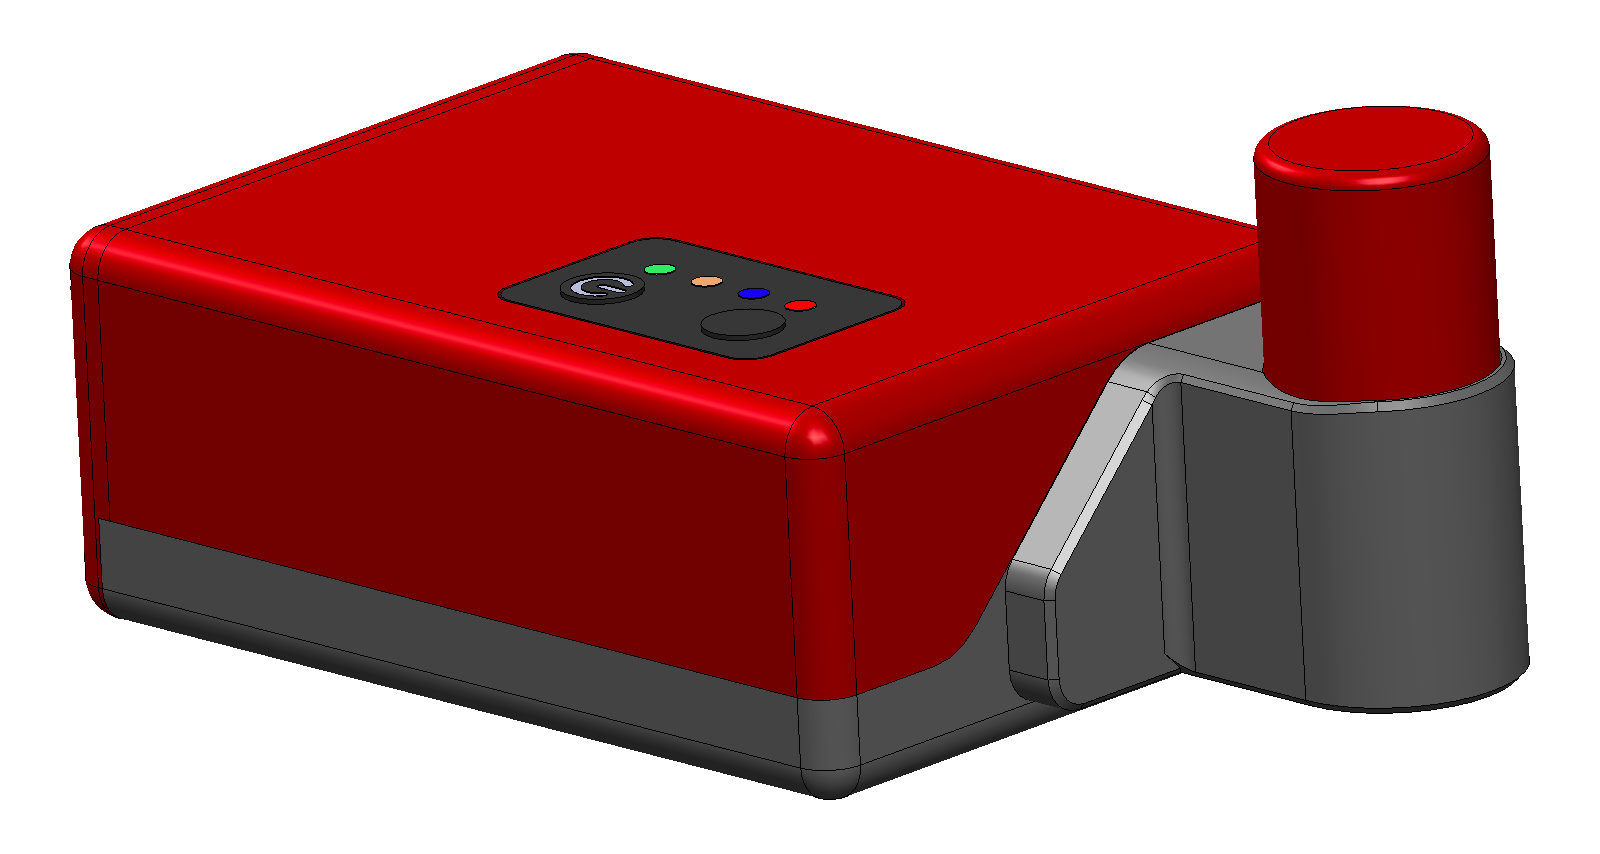
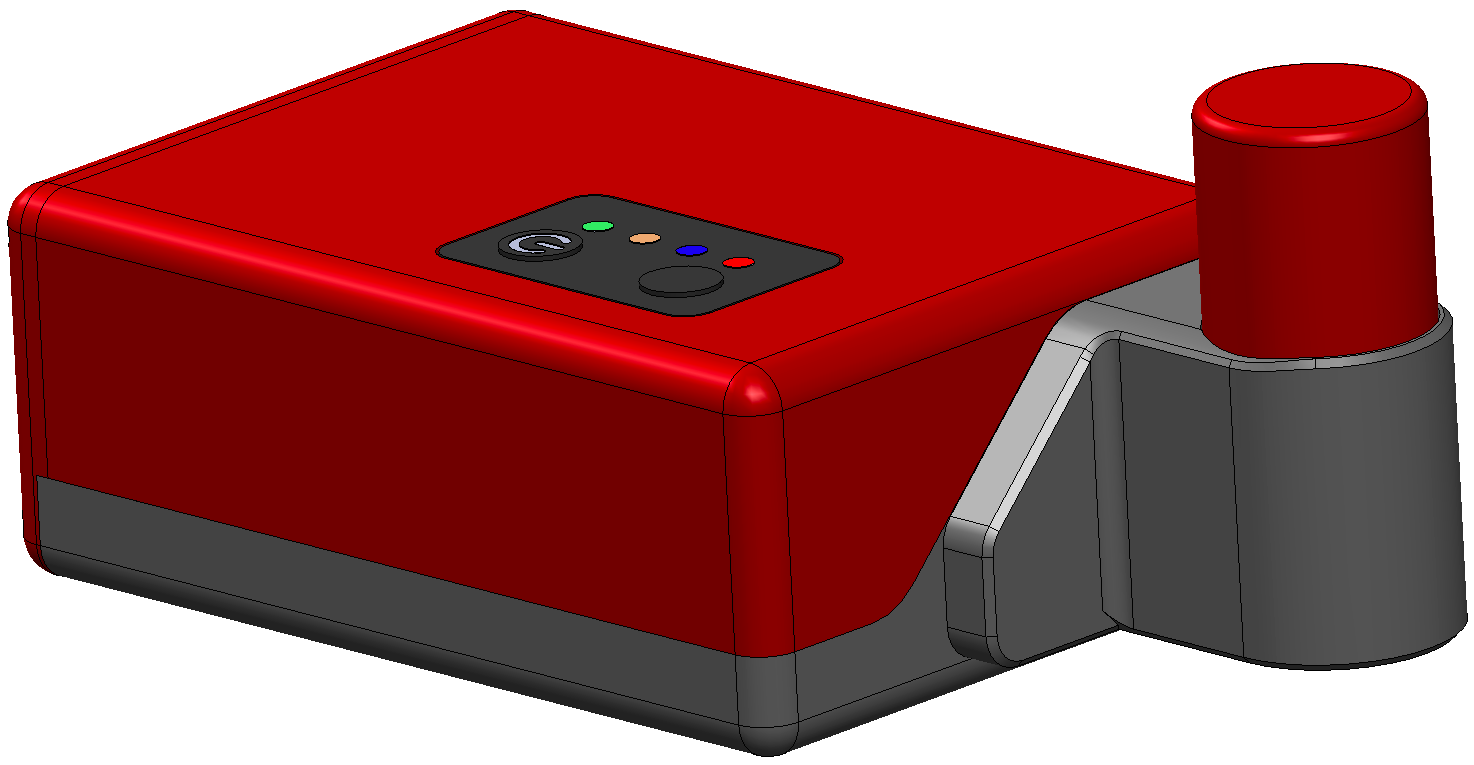
fixed BLW FW, testing PCS, add Laser Max Temp, add AssemblyRev, deprecated baud & linearity

diff --git a/enlighten/Controller.py b/enlighten/Controller.py
@@ -826,13 +826,16 @@ class Controller:
             self.eeprom_writer.backup()
 
         ########################################################################
-        # display firmware
+        # update hardware details (move to class)
         ########################################################################
 
         cfu.label_microcontroller_firmware_version.setText(spec.settings.microcontroller_firmware_version)
         cfu.label_fpga_firmware_version.setText(spec.settings.fpga_firmware_version)
         cfu.label_microcontroller_serial_number.setText(spec.settings.microcontroller_serial_number)
-        cfu.label_ble_firmware_version.setText(spec.settings.ble_firmware_version)
+        cfu.label_assembly_revision.setText(str(spec.settings.eeprom.assembly_revision))
+
+        self.update_ble_firmware_version()
+        self.update_power_connection_state()
 
         ########################################################################
         # update EEPROM Editor
@@ -1015,6 +1018,32 @@ class Controller:
         # updates from initialization to match time window in spinbox
         # call StripChartFeature getter
         spec.app_state.reset_rolling_data(time_window=cfu.spinBox_strip_window.value(), hotplug=hotplug)
+
+    def update_ble_firmware_version(self):
+        cfu = self.form.ui
+        spec = self.multispec.current_spectrometer()
+        if spec is None:
+            return
+
+        cfu.label_ble_firmware_version.setText(spec.settings.ble_firmware_version)
+
+    def update_power_connection_state(self):
+        """ USB adapter info """
+        cfu = self.form.ui
+        lb = cfu.label_power_connection_state
+        lb.clear()
+        lb.setToolTip(None)
+
+        spec = self.multispec.current_spectrometer()
+        if spec is None:
+            return
+
+        pcs = spec.settings.state.power_connection_state
+        if not pcs:
+            return
+            
+        lb.setText(pcs.short())
+        lb.setToolTip(pcs.long())
 
     # ##########################################################################
     # Setup (populate widget placeholders)
@@ -1701,6 +1730,9 @@ class Controller:
 
         elif msg.setting == "scan_averaging": 
             self.scan_averaging.process_status_message(msg.value, spec)
+
+        elif msg.setting == "received_ble_firmware_version": 
+            self.update_ble_firmware_version()
 
         else:
             log.debug("unsupported StatusMessage: %s", msg.setting)

diff --git a/enlighten/device/EEPROMEditor.py b/enlighten/device/EEPROMEditor.py
@@ -41,6 +41,7 @@ class EEPROMAttribute:
         self.is_scalar = False          # is this a array like wavelength_coeffs (lineedit) or bad_pixels (spinbox), or a scalar like excitation_nm_float or serial_number?
         self.is_multi = False           # does this attribute support multiple values for different wavelength calibrations per subformat 5?
         self.is_editable = False        # should this field be editable using the "wasatch" and "wasatchoem" passwords?
+        self.is_data = False            # is this a packed byte array
         self.count = 0                  # if this attribute is a list (non-scalar), how many elements does it have?
         self.calibrations = 0           # if this attribute is_multi, how many calibrations does it have?
         self.widget = None
@@ -316,7 +317,7 @@ class EEPROMEditor:
             self.add_attribute("checkbox", name, widget=getattr(cfu, f"checkBox_ee_{name}"))
 
         for name in [ "active_pixels_horizontal", "active_pixels_vertical", "actual_pixels_horizontal", 
-                      "slit_size_um", "baud_rate", "detector_offset", "detector_offset_odd", 
+                      "slit_size_um", "detector_offset", "detector_offset_odd", 
                       "startup_laser_tec_setpoint", "startup_integration_time_ms", "startup_temp_degC", "startup_triggering_scheme",
                       "min_integration_time_ms", "max_integration_time_ms", "max_temp_degC", "min_temp_degC",
                       "roi_vertical_region_1_end",   "roi_vertical_region_1_start", 
@@ -326,19 +327,19 @@ class EEPROMEditor:
                       "untethered_library_type", "untethered_library_id", "untethered_scans_to_average", 
                       "untethered_min_ramp_pixels", "untethered_min_peak_height", "untethered_match_threshold", "untethered_library_count",
                       "laser_watchdog_sec", "light_source_type", "power_timeout_sec", "detector_timeout_sec",
-                      "startup_scans_to_average", "laser_attenuator" ]:
+                      "startup_scans_to_average", "laser_attenuator", "max_laser_temp_deg_c" ]:
             self.add_attribute("spinbox", name, widget=getattr(cfu, f"spinBox_ee_{name}"))
 
         for name in [ "max_laser_power_mW", "min_laser_power_mW", "detector_gain", "detector_gain_odd", "spline_min", "spline_max" ]:
             self.add_attribute("doublespinbox", name, widget=getattr(cfu, f"doubleSpinBox_ee_{name}"))
 
         for name in [ "calibrated_by", "calibration_date", "detector", "model", "serial_number", "user_text", 
-                      "laser_password" ]:
+                      "laser_password", "assembly_revision_packed" ]:
             self.add_attribute("lineedit", name, is_numeric=False, widget=getattr(cfu, f"lineEdit_ee_{name}"))
 
         # Arrays (but still not multi-wavelength)
         self.add_attribute("lineedit", "laser_power_coeffs", widgets=[ getattr(cfu, f"lineEdit_ee_laser_power_coeff_{i}") for i in range(4) ])
-        self.add_attribute("lineedit", "linearity_coeffs",   widgets=[ getattr(cfu, f"lineEdit_ee_linearity_coeff_{i}")   for i in range(5) ])
+       #self.add_attribute("lineedit", "linearity_coeffs",   widgets=[ getattr(cfu, f"lineEdit_ee_linearity_coeff_{i}")   for i in range(5) ]) # deprecated
         self.add_attribute("lineedit", "degC_to_dac_coeffs", widgets=[ getattr(cfu, f"lineEdit_ee_degC_to_dac_coeff_{i}") for i in range(3) ])
         self.add_attribute("lineedit", "adc_to_degC_coeffs", widgets=[ getattr(cfu, f"lineEdit_ee_adc_to_degC_coeff_{i}") for i in range(3) ])
         self.add_attribute("lineedit", "spline_wavelengths", widgets=[ getattr(cfu, f"lineEdit_ee_spline_wl_{i}")         for i in range(14) ])
@@ -622,8 +623,12 @@ class EEPROMEditor:
                                 product_configuration = self.eeprom.multi_wavelength_calibration.get("product_configuration")
                                 if value and product_configuration:
                                     value += product_configuration
+                            elif attr.name == "assembly_revision_packed":
+                                # could generalize this with attr.is_data
+                                if value and len(value):
+                                    value = "".join([f"{v:02x}" for v in value])
                             attr.widget.setText(str(value))
-                        else:                                   # e.g. adc_to_degC, degC_to_dac, laser_power_coeffs, linearity_coeffs
+                        else:                                   # e.g. adc_to_degC, degC_to_dac, laser_power_coeffs
                             a = self.eeprom.multi_wavelength_calibration.get(attr.name)
                             for i, w in enumerate(attr.widgets):
                                 if i < len(a):

diff --git a/enlighten/common.py b/enlighten/common.py
@@ -13,7 +13,7 @@ application.
       can be modules (files) within it
 """
 
-VERSION = "4.2.1"
+VERSION = "4.2.2"
 
 ctl = None
 

diff --git a/CHANGELOG.md b/CHANGELOG.md
@@ -5,6 +5,11 @@
     - added ctrl-% shortcut
     - starting to think about Safe Mode
     - simplifying logic to generate and scale product images
+    - fixed BLE Firmware Rev 
+    - added Power Connection State (pending FW fix)
+    - added Laser Max Temp DegC
+    - added AssemblyRevision (packed and expanded)
+    - deprecated Baud Rate and Linearity Coeffs
 - 2026-04-16 4.2.1
     - Bluetooth
         - added RnD.BluetoothTester plugin